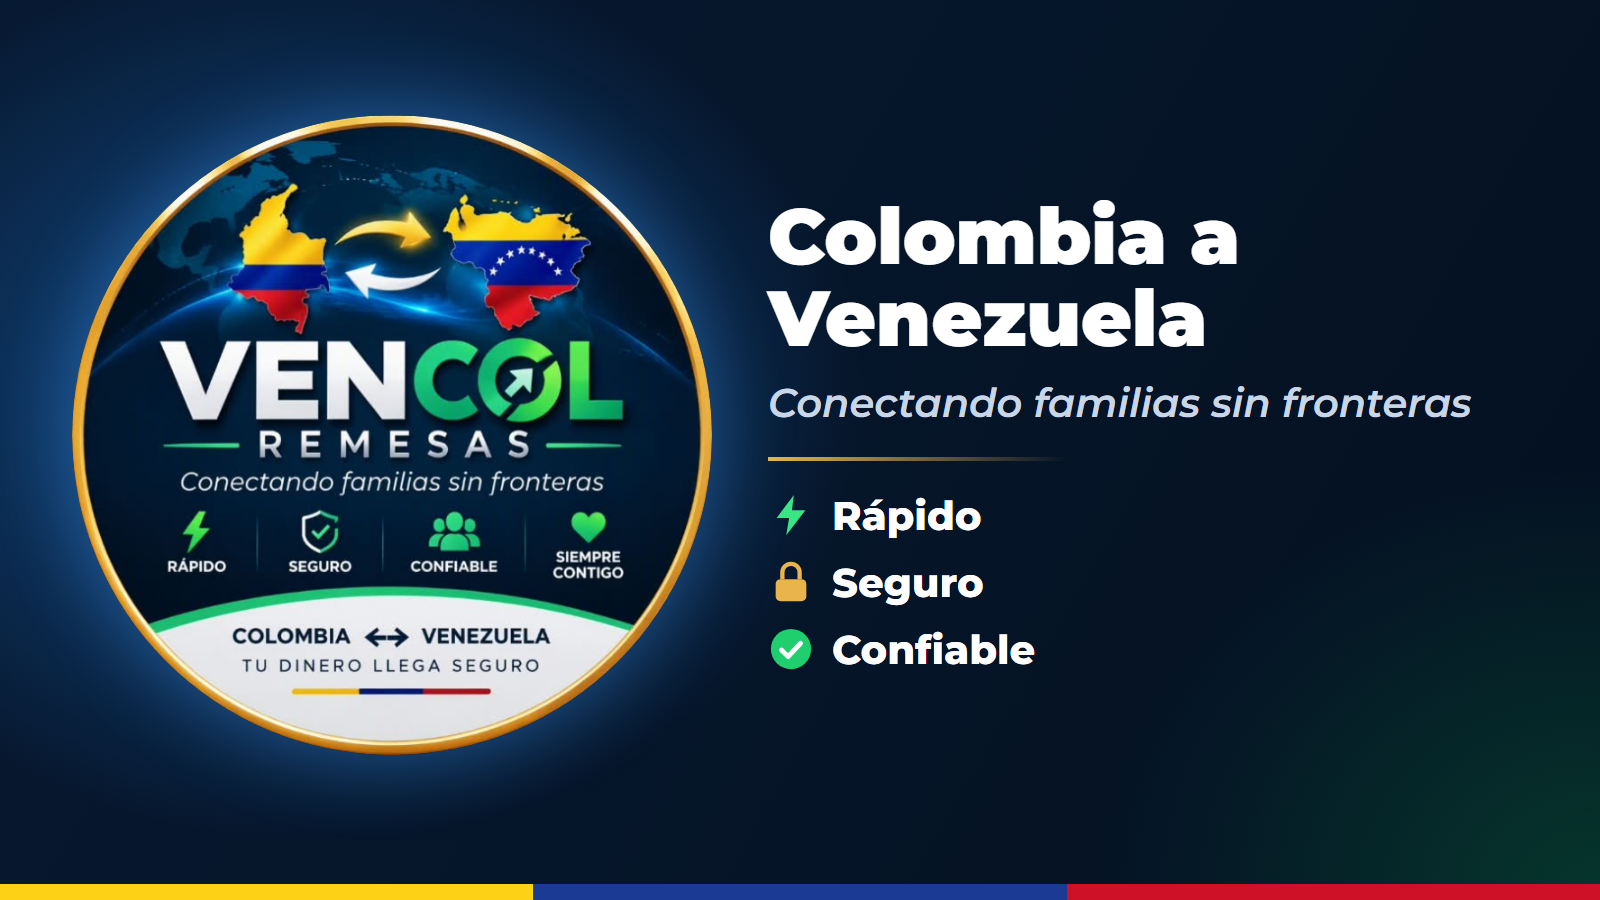
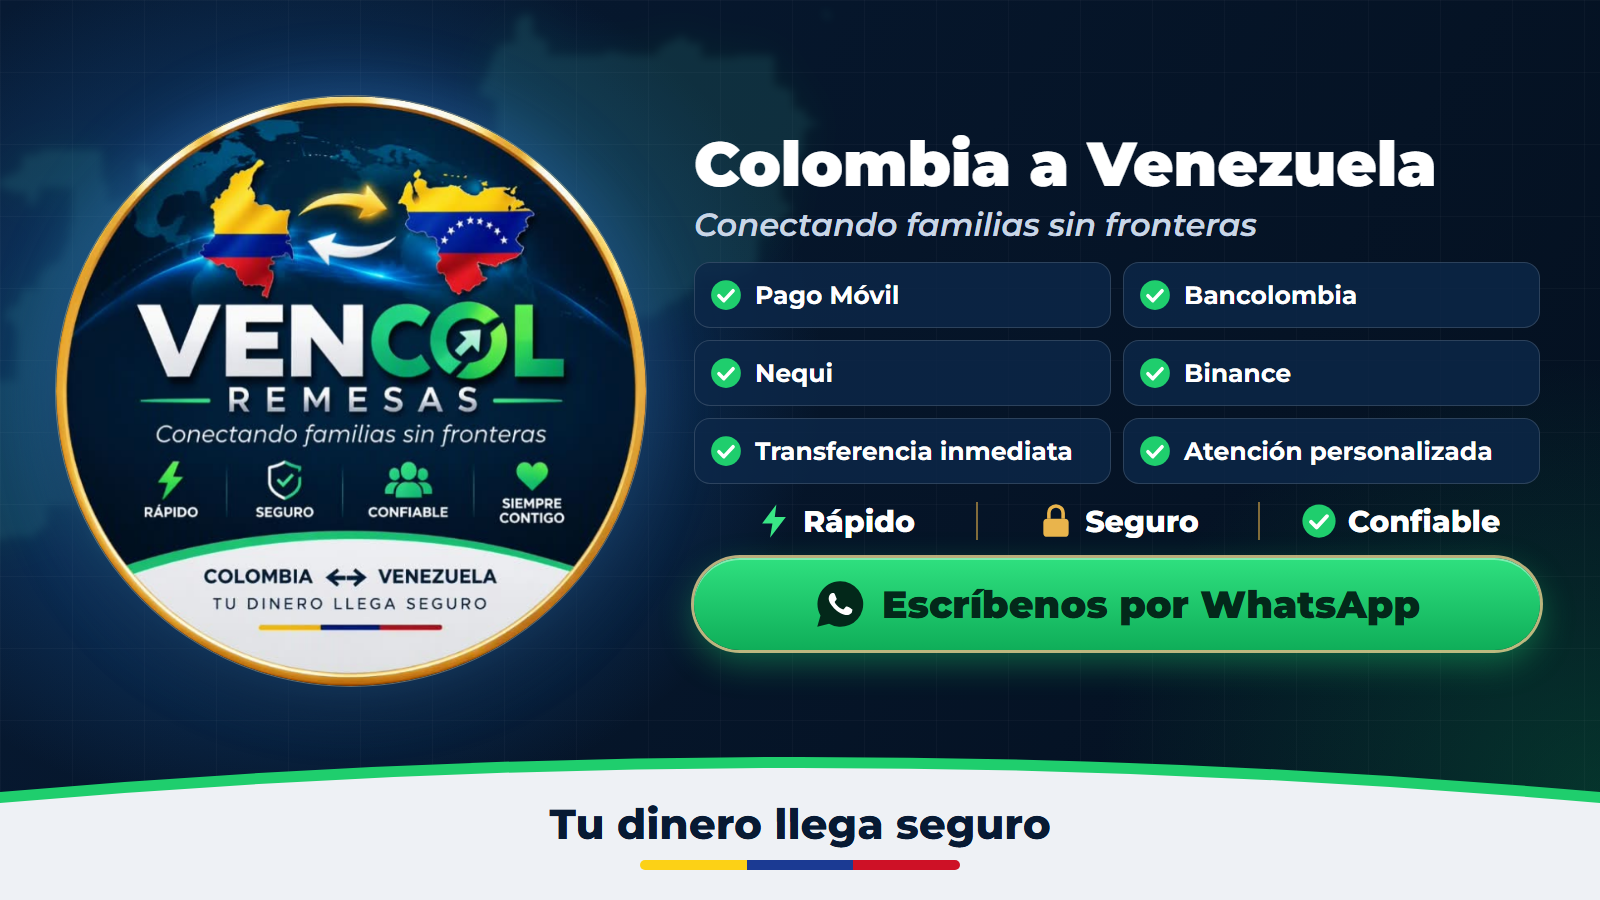
Agregar métodos de pago a la portada de WhatsApp

diff --git a/portada-whatsapp.html b/portada-whatsapp.html
@@ -5,40 +5,92 @@
 <title>VENCOL Portada WhatsApp</title>
 <link rel="stylesheet" href="https://fonts.googleapis.com/css2?family=Montserrat:ital,wght@0,700;0,800;0,900;1,600&display=block">
 <style>
-  :root { --navy-900: #04101f; --navy-800: #071a33; --line: rgba(255,255,255,.14); --gold: #e9b44c; --mist: #c9d6e6; }
+  :root { --navy-900: #04101f; --navy-800: #071a33; --line: rgba(255,255,255,.14); --gold: #e9b44c; --gold-pale: #f8dc97; --mist: #c9d6e6; }
   * { box-sizing: border-box; margin: 0; padding: 0; }
   html, body { width: 1600px; height: 900px; overflow: hidden; background: var(--navy-900); }
   body { font-family: "Montserrat", "Segoe UI", sans-serif; color: #fff; }
-  .portada { position: relative; display: grid; grid-template-columns: 640px 1fr; align-items: center; gap: 56px; width: 1600px; height: 900px; padding: 60px 72px 90px;
+  .portada { position: relative; width: 1600px; height: 900px; overflow: hidden;
     background:
-      radial-gradient(760px 620px at 20% 44%, #15508f 0%, rgba(21,80,143,0) 72%),
-      radial-gradient(700px 600px at 100% 100%, rgba(10,154,80,.28) 0%, rgba(10,154,80,0) 72%),
+      radial-gradient(720px 620px at 19% 42%, #15508f 0%, rgba(21,80,143,0) 72%),
+      radial-gradient(700px 600px at 100% 88%, rgba(10,154,80,.26) 0%, rgba(10,154,80,0) 72%),
       linear-gradient(120deg, var(--navy-800), var(--navy-900)); }
-  .logo { width: 640px; height: 640px; border-radius: 50%; box-shadow: 0 0 80px rgba(66,160,255,.42); }
-  h1 { font-size: 78px; font-weight: 900; line-height: 1.05; }
-  .sub { margin-top: 18px; font-size: 40px; font-style: italic; font-weight: 600; color: var(--mist); }
-  .regla { width: 300px; height: 4px; margin: 30px 0; background: linear-gradient(90deg, var(--gold), transparent); }
-  ul { display: grid; gap: 18px; list-style: none; }
-  li { display: flex; align-items: center; gap: 18px; font-size: 40px; font-weight: 800; }
-  li svg { width: 46px; height: 46px; flex: none; }
-  .tricolor { position: absolute; left: 0; right: 0; bottom: 0; height: 16px; display: flex; }
+  .grid { position: absolute; inset: 0; background-image:
+      linear-gradient(rgba(255,255,255,.028) 1px, transparent 1px),
+      linear-gradient(90deg, rgba(255,255,255,.028) 1px, transparent 1px);
+    background-size: 72px 72px; }
+  .map { position: absolute; opacity: .15; filter: blur(4px) drop-shadow(0 0 22px rgba(31,206,109,.55)); }
+  .map.col { left: -40px; top: 150px; width: 320px; }
+  .map.ven { left: 470px; top: 10px; width: 360px; }
+  .contenido { position: absolute; left: 0; right: 0; top: 0; bottom: 118px; display: grid; grid-template-columns: 590px 1fr; align-items: center; gap: 48px; padding: 0 60px 0 56px; }
+  .logo { display: block; width: 590px; height: 590px; border-radius: 50%; box-shadow: 0 0 0 1px rgba(248,220,151,.35), 0 0 70px rgba(66,160,255,.42), 0 22px 50px rgba(0,0,0,.55); }
+  .info { display: flex; flex-direction: column; gap: 18px; }
+  h1 { font-size: 62px; font-weight: 900; line-height: 1.05; white-space: nowrap; }
+  .sub { margin-top: 8px; font-size: 32px; font-style: italic; font-weight: 600; color: var(--mist); }
+  .servicios { display: grid; grid-template-columns: repeat(2, minmax(0, 1fr)); gap: 12px; }
+  .servicio { display: flex; align-items: center; gap: 12px; height: 66px; padding: 0 14px; border: 1.5px solid var(--line); border-radius: 16px; background: rgba(12,39,72,.82); font-size: 25px; font-weight: 700; white-space: nowrap; }
+  .servicio svg { width: 34px; height: 34px; flex: none; }
+  .confianza { display: grid; grid-template-columns: repeat(3, 1fr); }
+  .confianza div { display: flex; align-items: center; justify-content: center; gap: 10px; font-size: 30px; font-weight: 800; }
+  .confianza div + div { border-left: 2px solid rgba(233,180,76,.55); }
+  .confianza svg { width: 38px; height: 38px; flex: none; }
+  .cta { display: flex; align-items: center; justify-content: center; gap: 16px; height: 92px; border-radius: 46px; background: linear-gradient(180deg, #2fe07f, #0fae59);
+    box-shadow: 0 0 0 3px rgba(248,220,151,.75), 0 12px 34px rgba(31,206,109,.42), inset 0 2px 0 rgba(255,255,255,.4); color: #03281a; font-size: 38px; font-weight: 900; white-space: nowrap; }
+  .cta svg { width: 52px; height: 52px; flex: none; }
+  .pie { position: absolute; left: 0; right: 0; bottom: 0; height: 150px; }
+  .pie svg { position: absolute; inset: 0; width: 100%; height: 100%; }
+  .pie p { position: absolute; left: 0; right: 0; top: 48px; text-align: center; color: var(--navy-800); font-size: 42px; font-weight: 800; }
+  .tricolor { position: absolute; left: 50%; top: 110px; width: 320px; height: 10px; margin-left: -160px; border-radius: 5px; overflow: hidden; display: flex; }
   .tricolor i { flex: 1; }
 </style>
 </head>
 <body>
 <main class="portada">
-  <img class="logo" src="assets/logo-vencol.png" alt="VENCOL Remesas">
-  <div>
-    <h1>Colombia a Venezuela</h1>
-    <p class="sub">Conectando familias sin fronteras</p>
-    <div class="regla"></div>
-    <ul>
-      <li><svg viewBox="0 0 48 48" aria-hidden="true"><path d="M27 3 9 27h13l-3 18 20-26H25z" fill="#39e585"/></svg>Rápido</li>
-      <li><svg viewBox="0 0 48 48" fill="none" aria-hidden="true"><rect x="8" y="21" width="32" height="23" rx="5" fill="#e9b44c"/><path d="M15 21v-7a9 9 0 0 1 18 0v7" stroke="#e9b44c" stroke-width="4.5"/></svg>Seguro</li>
-      <li><svg viewBox="0 0 48 48" fill="none" aria-hidden="true"><circle cx="24" cy="24" r="21" fill="#1fce6d"/><path d="m14 25 7 7 13-14" stroke="#fff" stroke-width="5" stroke-linecap="round" stroke-linejoin="round"/></svg>Confiable</li>
-    </ul>
+  <div class="grid"></div>
+  <img class="map col" src="assets/mapa-colombia.png" alt="">
+  <img class="map ven" src="assets/mapa-venezuela.png" alt="">
+
+  <div class="contenido">
+    <img class="logo" src="assets/logo-vencol.png" alt="VENCOL Remesas">
+    <div class="info">
+      <div>
+        <h1>Colombia a Venezuela</h1>
+        <p class="sub">Conectando familias sin fronteras</p>
+      </div>
+      <section class="servicios">
+        <div class="servicio">Pago Móvil</div>
+        <div class="servicio">Bancolombia</div>
+        <div class="servicio">Nequi</div>
+        <div class="servicio">Binance</div>
+        <div class="servicio">Transferencia inmediata</div>
+        <div class="servicio">Atención personalizada</div>
+      </section>
+      <section class="confianza">
+        <div><svg viewBox="0 0 48 48" aria-hidden="true"><path d="M27 3 9 27h13l-3 18 20-26H25z" fill="#39e585"/></svg>Rápido</div>
+        <div><svg viewBox="0 0 48 48" fill="none" aria-hidden="true"><rect x="8" y="21" width="32" height="23" rx="5" fill="#e9b44c"/><path d="M15 21v-7a9 9 0 0 1 18 0v7" stroke="#e9b44c" stroke-width="4.5"/></svg>Seguro</div>
+        <div><svg viewBox="0 0 48 48" fill="none" aria-hidden="true"><circle cx="24" cy="24" r="21" fill="#1fce6d"/><path d="m14 25 7 7 13-14" stroke="#fff" stroke-width="5" stroke-linecap="round" stroke-linejoin="round"/></svg>Confiable</div>
+      </section>
+      <div class="cta">
+        <svg viewBox="0 0 64 64" aria-hidden="true">
+          <path fill="#03281a" d="M32 4a28 28 0 0 0-24 42L4 60l14.500-3.800A28 28 0 1 0 32 4z"/>
+          <path fill="#fff" d="M45.600 37.500c-.7-.4-4.200-2.100-4.900-2.300-.7-.3-1.100-.4-1.600.3-.5.700-1.800 2.300-2.300 2.800-.4.500-.8.500-1.500.2-.7-.4-3-1.100-5.700-3.500-2.100-1.900-3.500-4.200-3.900-4.900-.4-.7 0-1.100.3-1.500.3-.3.700-.8 1.100-1.200.4-.4.500-.7.700-1.200.2-.5.100-.9-.1-1.300-.2-.4-1.600-3.900-2.200-5.300-.6-1.400-1.200-1.200-1.600-1.200h-1.400c-.5 0-1.300.2-1.900.9-.7.700-2.500 2.500-2.500 6s2.600 7 2.900 7.400c.4.500 5.100 7.800 12.300 10.900 1.700.7 3.100 1.200 4.100 1.500 1.700.5 3.300.5 4.500.3 1.400-.2 4.200-1.700 4.800-3.400.6-1.700.6-3.100.4-3.400-.2-.3-.6-.5-1.300-.9z"/>
+        </svg>
+        Escríbenos por WhatsApp
+      </div>
+    </div>
   </div>
-  <div class="tricolor"><i style="background:#fcd116"></i><i style="background:#1b3a93"></i><i style="background:#ce1126"></i></div>
+
+  <footer class="pie">
+    <svg viewBox="0 0 1600 150" preserveAspectRatio="none" aria-hidden="true">
+      <path d="M0 42 Q800 -28 1600 42 V150 H0 Z" fill="#1fce6d"/>
+      <path d="M0 53 Q800 -17 1600 53 V150 H0 Z" fill="#eef1f5"/>
+    </svg>
+    <p>Tu dinero llega seguro</p>
+    <div class="tricolor"><i style="background:#fcd116"></i><i style="background:#1b3a93"></i><i style="background:#ce1126"></i></div>
+  </footer>
 </main>
+<script>
+  const check = '<svg viewBox="0 0 48 48" fill="none" aria-hidden="true"><circle cx="24" cy="24" r="21" fill="#1fce6d"/><path d="m14 25 7 7 13-14" stroke="#fff" stroke-width="5" stroke-linecap="round" stroke-linejoin="round"/></svg>';
+  document.querySelectorAll('.servicio').forEach(s => s.insertAdjacentHTML('afterbegin', check));
+</script>
 </body>
 </html>
